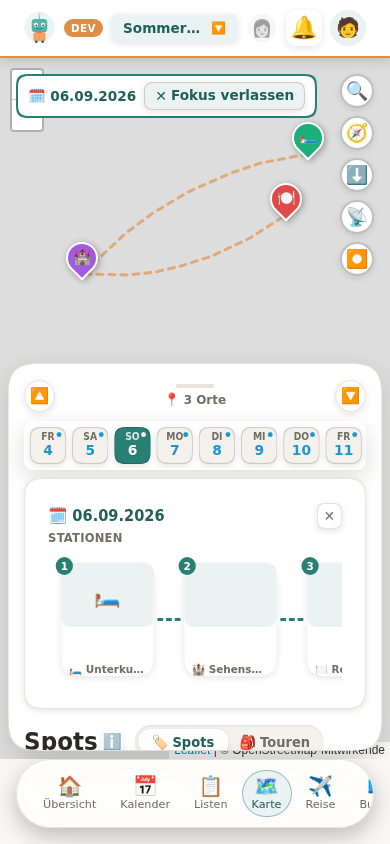
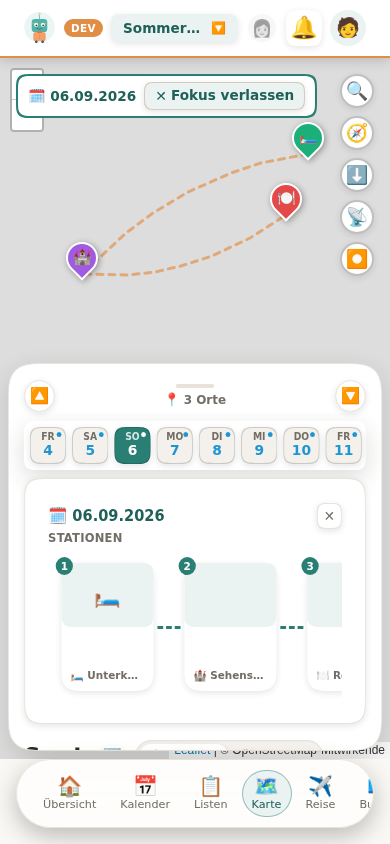
Gleichmäßiges Padding ringsum in MiniStationCard (Review-Feedback #173)
Der äußere Flex-Gap zwischen Bild und Body erzeugte einen eigenen,
nicht mit dem Text-Padding abgestimmten Abstand. Jetzt bestimmt allein
.body's eigenes Padding (0.6em, alle Seiten gleich) sowohl den Abstand
zum Bild als auch zu den übrigen drei Rändern.

diff --git a/frontend/src/components/MiniStationCard.vue b/frontend/src/components/MiniStationCard.vue
@@ -28,7 +28,6 @@ defineProps<{ station: ExcursionStation }>();
   flex-shrink: 0;
   display: flex;
   flex-direction: column;
-  gap: 4px;
 }
 
 .image {
@@ -49,7 +48,10 @@ defineProps<{ station: ExcursionStation }>();
   display: flex;
   flex-direction: column;
   gap: 2px;
-  padding: 0 var(--space-2);
+  /* Ringsherum derselbe Abstand (oben/rechts/unten/links) - der Abstand zum Vorschaubild kommt
+     dadurch automatisch aus diesem Padding statt aus einem zusätzlichen, separaten Gap auf
+     .mini-station-card (das addierte sich vorher ungewollt zum Padding, siehe PR #173). */
+  padding: 0.6em;
 }
 
 .title {
